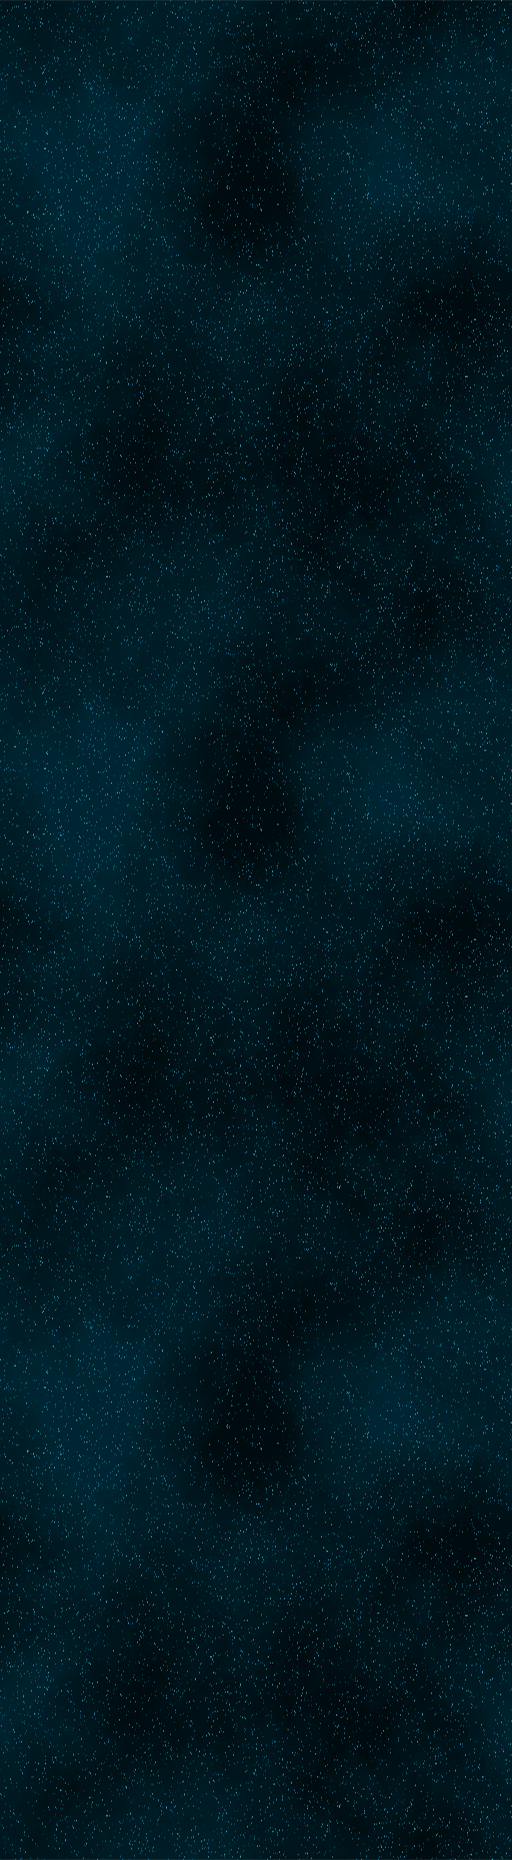
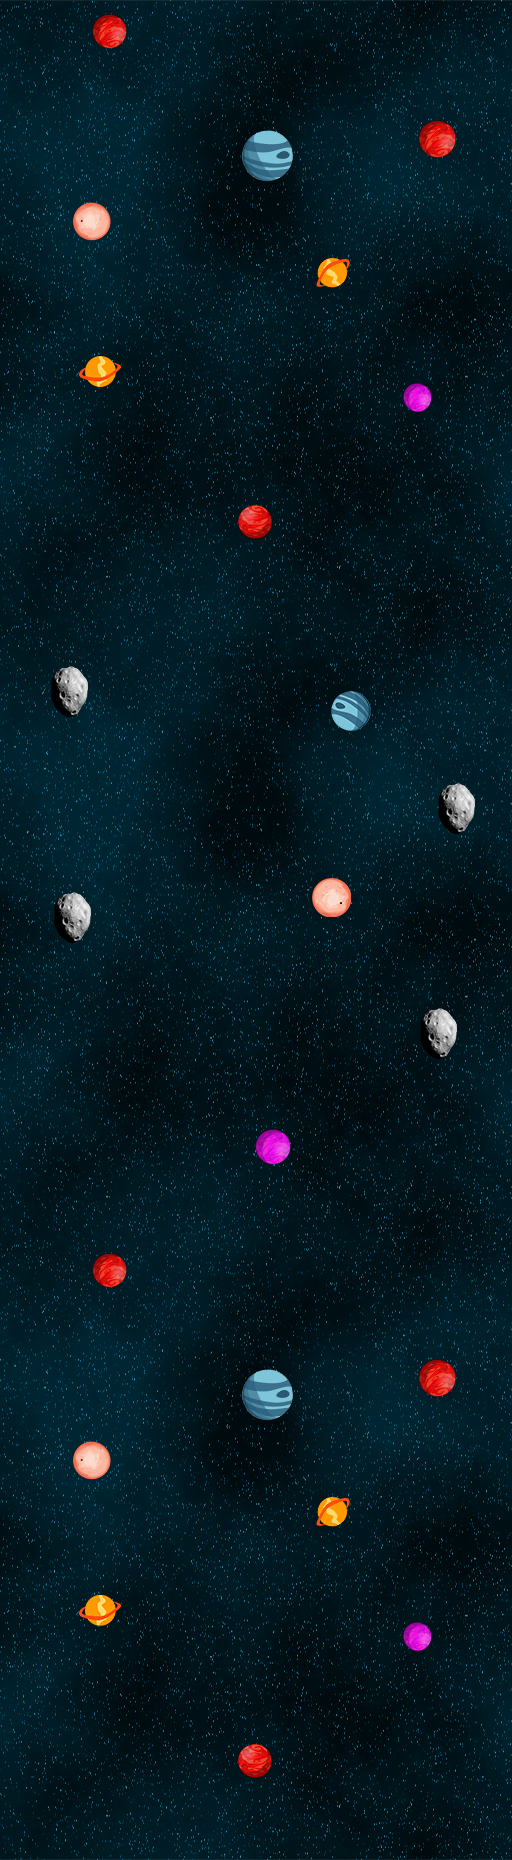
Changesd Level 2 BG and Compressed Images

diff --git a/scripts/core/game.js b/scripts/core/game.js
@@ -5,10 +5,9 @@
     var loader;
     var assetManager;
     var assetManifest = [
-        { id: "bg1", src: "../../assets/images/greenbg.png" },
-        { id: "bg2", src: "../../assets/images/bluebg.png" },
-        { id: "bg3", src: "../../assets/images/redbg.png" },
-        { id: "bg4", src: "../../assets/images/spacebg.png" },
+        { id: "bg1", src: "../../assets/images/greenbg-min.png" },
+        { id: "bg2", src: "../../assets/images/bluebg-min.png" },
+        { id: "bg3", src: "../../assets/images/redbg-min.png" },
         { id: "music", src: "../../assets/audio/gameMusic.mp3" },
         { id: "explosion", src: "../../assets/audio/explosion.wav" },
         { id: "laser", src: "../../assets/audio/laser.mp3" },

diff --git a/scripts/core/game.ts b/scripts/core/game.ts
@@ -5,10 +5,9 @@
   let loader: any;
   let assetManager: createjs.LoadQueue;
   let assetManifest = [
-    { id: "bg1", src: "../../assets/images/greenbg.png" },
-    { id: "bg2", src: "../../assets/images/bluebg.png" },
-    { id: "bg3", src: "../../assets/images/redbg.png" },
-    { id: "bg4", src: "../../assets/images/spacebg.png" },
+    { id: "bg1", src: "../../assets/images/greenbg-min.png" },
+    { id: "bg2", src: "../../assets/images/bluebg-min.png" },
+    { id: "bg3", src: "../../assets/images/redbg-min.png" },
     { id: "music", src: "../../assets/audio/gameMusic.mp3" },
     { id: "explosion", src: "../../assets/audio/explosion.wav" },
     { id: "laser", src: "../../assets/audio/laser.mp3" },

diff --git a/scripts/objects/background.js b/scripts/objects/background.js
@@ -21,7 +21,7 @@ var objects;
         }
         // PRIVATE METHODS
         Background.prototype._reset = function () {
-            this.y = -620;
+            this.y = -1240;
         };
         Background.prototype._checkBounds = function () {
             if (this.y >= 0) {

diff --git a/scripts/objects/background.ts b/scripts/objects/background.ts
@@ -12,7 +12,7 @@ module objects {
 
     // PRIVATE METHODS
     private _reset(): void {
-      this.y = -620;
+      this.y = -1240;
     }
 
     private _checkBounds(): void {
